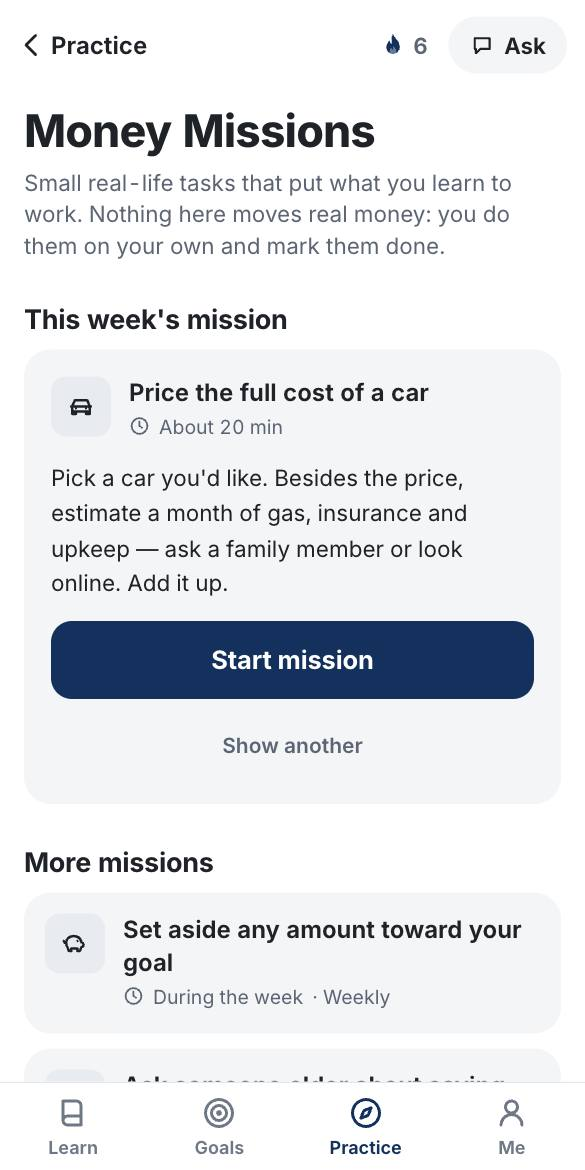
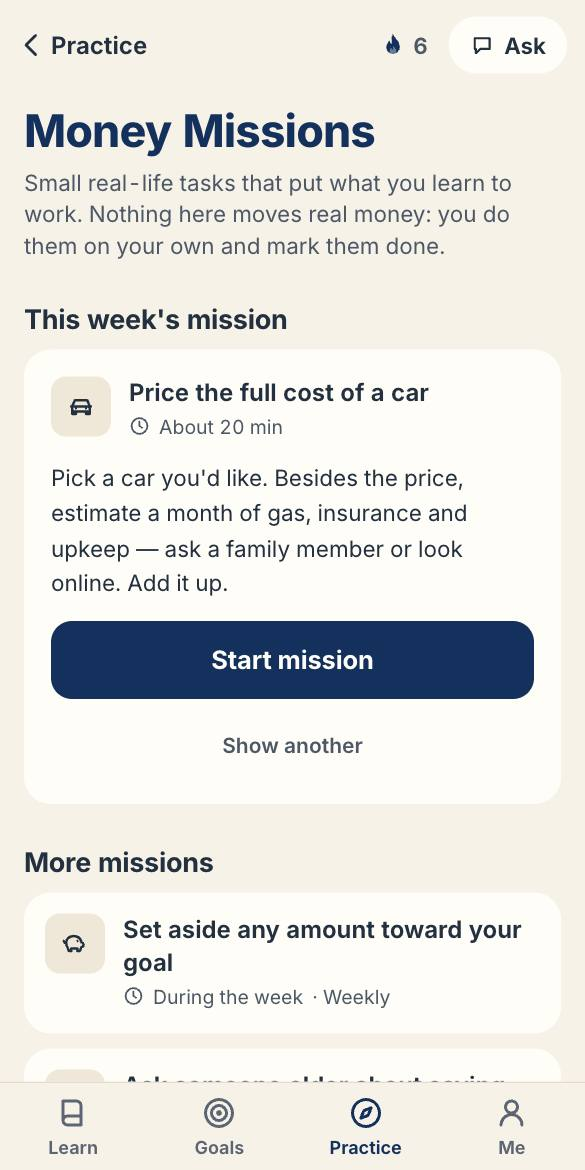
Navy and cream look (before launch)
- Light: a soft cream page (#F7F2E8), lighter cream cards, deep navy for
  headings, the main button, progress, the active tab, links and the
  logo; dark grey-navy body text. Dark: a deep navy page with cream text
  and cream accents (replacing the charcoal). Green still only for a
  correct answer, amber for "not quite" / "behind".
- New --head and --focus tokens; buttons, toasts and pills no longer
  assume white text, so they read in both modes.
- test/look.test.mjs: 26 text/background pairs meet WCAG AA (4.5:1) in
  Light and Dark, and the main button, progress and focus ring stand out.
- Matching: landing pages and teacher guides, share cards (cream on
  navy, a sand rule), the app icon (cream on navy; PNGs redrawn by
  scripts/make-icons.mjs), install colors, share previews, the mockup
  kit. Emails are plain text, so there's nothing to recolor.
- Screenshots: docs/design/navy-cream/ (after/, before-after.png),
  landing pictures retaken.

diff --git a/src/core/ui.jsx b/src/core/ui.jsx
@@ -1,72 +1,78 @@
-// DESIGN SYSTEM — the look (two of them: Light and Dark) as CSS variables,
+// DESIGN SYSTEM — the look (navy and cream, Light and Dark) as CSS variables,
 // and the small set of pieces every module builds with. Phone first: 44pt
 // tap targets, 16px inputs (so iPhones don't zoom), one column.
 import { useEffect, useRef, useState } from "react";
 import { createPortal } from "react-dom";
 
-// Mostly white and light grey, dark-grey text, and navy used sparingly:
-// the main button, progress, the active tab, links and the brand. Green
-// (--right) is only for a correct answer in a lesson; amber only for "not
-// quite"; red only for a loss or an error. One card style: a light-grey
-// fill, no border, no shadow. Two looks: Light ("white") and a charcoal
-// Dark ("navy", the saved name from before).
+// Navy and cream. Light: a soft cream page, lighter cream cards, deep navy
+// for headings, the main button, progress, the active tab, links and the
+// logo, and dark grey-navy body text. Dark: a deep navy page with cream
+// text and cream accents. Green (--right) is only for a correct answer in
+// a lesson; amber only for "not quite" or "behind"; red only for a loss or
+// an error. One card style: a fill, no border, no shadow. Every text pair
+// meets WCAG AA (test/look.test.mjs checks). The saved names stay "white"
+// (Light) and "navy" (Dark), so nobody's setting changes.
 export const LOOKS = {
   white: {
-    "--bg": "#FFFFFF",
-    "--surface": "#F4F5F7",
-    "--surface2": "#E8EBEF",
-    "--ink": "#1F2328",
-    "--mid": "#5B6573",
-    "--low": "#6E7886",
-    "--line": "#E4E7EB",
+    "--bg": "#F7F2E8",
+    "--surface": "#FFFDF8",
+    "--surface2": "#EFE7D8",
+    "--ink": "#22303F",
+    "--head": "#13315C",
+    "--mid": "#4C5866",
+    "--low": "#5C6573",
+    "--line": "#E6DCCB",
     "--brand": "#13315C",
-    "--onBrand": "#FFFFFF",
-    "--brandSoft": "#E8EDF5",
+    "--onBrand": "#FFFDF8",
+    "--brandSoft": "#E3E7EE",
     "--accent": "#13315C",
-    "--accentSoft": "#E8EDF5",
+    "--accentSoft": "#E3E7EE",
     "--good": "#13315C",
-    "--goodSoft": "#E8EDF5",
-    "--right": "#1E7A5F",
-    "--rightSoft": "#E6F2EE",
-    "--warn": "#9A5B12",
-    "--warnSoft": "#FBF1E4",
-    "--bad": "#B42318",
-    "--badSoft": "#FBECEA",
+    "--goodSoft": "#E3E7EE",
+    "--right": "#1B6F54",
+    "--rightSoft": "#E1EFE6",
+    "--warn": "#8C520E",
+    "--warnSoft": "#F7E9D2",
+    "--bad": "#A8231A",
+    "--badSoft": "#F9E7E2",
     "--flame": "#13315C",
     "--gold": "#13315C",
     "--sky": "#13315C",
-    "--level1": "#C9D4E6",
+    "--level1": "#CBD3E0",
     "--level2": "#6F89B3",
     "--level3": "#13315C",
+    "--focus": "#2B5CB3",
     "--shadow": "none",
   },
   navy: {
-    "--bg": "#0F1216",
-    "--surface": "#191D23",
-    "--surface2": "#252A32",
-    "--ink": "#E8EAED",
-    "--mid": "#A6AFBB",
-    "--low": "#8A94A1",
-    "--line": "#2A3038",
-    "--brand": "#9DB8E6",
-    "--onBrand": "#0F1216",
-    "--brandSoft": "#1D2A40",
-    "--accent": "#9DB8E6",
-    "--accentSoft": "#1D2A40",
-    "--good": "#9DB8E6",
-    "--goodSoft": "#1D2A40",
-    "--right": "#4DB892",
-    "--rightSoft": "#12302A",
-    "--warn": "#E3A44A",
-    "--warnSoft": "#33281A",
-    "--bad": "#F07167",
-    "--badSoft": "#3A1E26",
-    "--flame": "#9DB8E6",
-    "--gold": "#C9D8F0",
-    "--sky": "#9DB8E6",
-    "--level1": "#2B3B57",
-    "--level2": "#56719E",
-    "--level3": "#9DB8E6",
+    "--bg": "#0D1A2D",
+    "--surface": "#15253C",
+    "--surface2": "#1F3150",
+    "--ink": "#F2EBDC",
+    "--head": "#F7F1E6",
+    "--mid": "#CFC7B7",
+    "--low": "#B3AC9E",
+    "--line": "#2A3C58",
+    "--brand": "#F0E3C6",
+    "--onBrand": "#0D1A2D",
+    "--brandSoft": "#24344F",
+    "--accent": "#F0E3C6",
+    "--accentSoft": "#24344F",
+    "--good": "#F0E3C6",
+    "--goodSoft": "#24344F",
+    "--right": "#63C9A2",
+    "--rightSoft": "#123A33",
+    "--warn": "#EBB663",
+    "--warnSoft": "#3A2E19",
+    "--bad": "#F4907F",
+    "--badSoft": "#3B2224",
+    "--flame": "#F0E3C6",
+    "--gold": "#F0E3C6",
+    "--sky": "#F0E3C6",
+    "--level1": "#2E4568",
+    "--level2": "#7F9CC9",
+    "--level3": "#F0E3C6",
+    "--focus": "#A9C4F0",
     "--shadow": "none",
   },
 };
@@ -84,7 +90,8 @@ html{scroll-padding-top:calc(64px + env(safe-area-inset-top));scroll-padding-bot
 body{font-family:${FONT};color:var(--ink);-webkit-font-smoothing:antialiased;-webkit-text-size-adjust:100%;font-feature-settings:'cv11','ss01';font-variant-numeric:tabular-nums}
 button{font-family:inherit}
 input,select,textarea{font-family:inherit;font-size:16px}
-:focus-visible{outline:3px solid #2B5CB3;outline-offset:2px}
+:focus-visible{outline:3px solid var(--focus);outline-offset:2px}
+h1,h2{color:var(--head)}
 .nv-press{transition:transform .15s cubic-bezier(.2,.7,.2,1),filter .15s;-webkit-tap-highlight-color:transparent}
 .nv-press:active{transform:scale(.98);filter:brightness(.97)}
 .nv-in{animation:nvIn .2s ease-out both}
@@ -174,8 +181,8 @@ export function Icon({ name, size = 22, color = "currentColor", stroke = 2, fill
 
 const BUTTON = {
   primary: { background: "var(--brand)", color: "var(--onBrand)" },
-  good: { background: "var(--good)", color: "#fff" },
-  bad: { background: "var(--bad)", color: "#fff" },
+  good: { background: "var(--good)", color: "var(--onBrand)" },
+  bad: { background: "var(--bad)", color: "var(--onBrand)" },
   secondary: { background: "var(--bg)", color: "var(--ink)", border: "1px solid var(--line)" },
   ghost: { background: "transparent", color: "var(--brand)", boxShadow: "none" },
 };
@@ -353,7 +360,7 @@ export function Title({ children, sub, right }) {
 export const Label = ({ children, style }) => <h2 style={{ fontSize: 18, fontWeight: 700, letterSpacing: -0.2, color: "var(--ink)", margin: "28px 0 10px", ...style }}>{children}</h2>;
 
 export function Wordmark({ size = 24 }) {
-  return <span style={{ fontFamily: SERIF, fontWeight: 650, fontSize: size, letterSpacing: -0.3, lineHeight: 1 }}>Northvale</span>;
+  return <span style={{ fontFamily: SERIF, fontWeight: 650, fontSize: size, letterSpacing: -0.3, lineHeight: 1, color: "var(--head)" }}>Northvale</span>;
 }
 
 // TOASTS — short notes at the top ("+5 XP", "Saved"). Anyone can call toast().
@@ -374,7 +381,7 @@ export function Toasts() {
   return (
     <div aria-live="polite" style={{ position: "fixed", top: "calc(10px + env(safe-area-inset-top))", left: 0, right: 0, zIndex: 80, display: "flex", flexDirection: "column", alignItems: "center", gap: 8, pointerEvents: "none" }}>
       {items.map((t) => (
-        <div key={t.id} className="nv-in" style={{ background: t.tone === "good" ? "var(--brand)" : t.tone === "bad" ? "var(--bad)" : "var(--ink)", color: t.tone === "good" ? "var(--onBrand)" : t.tone === "info" ? "var(--bg)" : "#fff", borderRadius: 999, padding: "10px 18px", fontWeight: 650, fontSize: 15, boxShadow: "var(--shadow)", maxWidth: "90vw" }}>
+        <div key={t.id} className="nv-in" style={{ background: t.tone === "good" ? "var(--brand)" : t.tone === "bad" ? "var(--bad)" : "var(--ink)", color: t.tone === "good" || t.tone === "bad" ? "var(--onBrand)" : "var(--bg)", borderRadius: 999, padding: "10px 18px", fontWeight: 650, fontSize: 15, boxShadow: "var(--shadow)", maxWidth: "90vw" }}>
           {t.message}
         </div>
       ))}

diff --git a/web/bienvenida.html b/web/bienvenida.html
@@ -27,14 +27,14 @@
     <style>
       @font-face { font-family: "Inter"; font-weight: 100 900; font-display: swap; src: url(/fonts/inter-latin-wght-normal.woff2) format("woff2"); }
       @font-face { font-family: "EB Garamond"; font-weight: 600 700; font-display: swap; src: url(/fonts/eb-garamond-latin-600-normal.woff2) format("woff2"); }
-      :root { --bg: #f6f7f9; --surface: #fff; --surface2: #eef1f5; --ink: #0b1626; --mid: #4b5565; --low: #8a93a3; --line: #e3e7ed; --brand: #13315c; --brandSoft: #e9eef6; --accent: #1e7a5f; --accentSoft: #e6f2ee; --bad: #b42318; --badSoft: #fbecea; --warnSoft: #fbf0e2 }
+      :root { --bg: #F7F2E8; --surface: #FFFDF8; --surface2: #EFE7D8; --ink: #22303F; --head: #13315C; --mid: #4C5866; --low: #5C6573; --line: #E6DCCB; --brand: #13315C; --brandSoft: #E3E7EE; --accent: #13315C; --accentSoft: #EDE3CF; --bad: #A8231A; --badSoft: #F9E7E2; --warnSoft: #F7E9D2 }
       * { box-sizing: border-box }
       html { scroll-behavior: smooth; -webkit-text-size-adjust: 100% }
       @media (prefers-reduced-motion: reduce) { html { scroll-behavior: auto } }
       body { margin: 0; background: var(--bg); color: var(--ink); font: 17px/1.55 Inter, system-ui, -apple-system, "Segoe UI", sans-serif }
       a { color: var(--brand) }
       .wrap { max-width: 1040px; margin: 0 auto; padding: 0 20px }
-      header { position: sticky; top: 0; z-index: 5; background: rgba(246, 247, 249, .94); backdrop-filter: blur(8px); border-bottom: 1px solid var(--line) }
+      header { position: sticky; top: 0; z-index: 5; background: rgba(247, 242, 232, .94); backdrop-filter: blur(8px); border-bottom: 1px solid var(--line) }
       header .wrap { display: flex; align-items: center; gap: 12px; min-height: 60px; padding-top: env(safe-area-inset-top) }
       .mark { font-family: "EB Garamond", Georgia, serif; font-weight: 650; font-size: 26px; letter-spacing: -.3px; color: var(--ink); text-decoration: none; line-height: 1 }
       .mark small { font-family: Inter, sans-serif; font-size: 11px; font-weight: 650; letter-spacing: 2.5px; color: var(--low); margin-left: 6px; vertical-align: 3px }
@@ -46,6 +46,7 @@
       .btn:disabled { opacity: .45; cursor: default }
       .btn:focus-visible, a:focus-visible, input:focus-visible, select:focus-visible { outline: 3px solid #2b5cb3; outline-offset: 2px }
       .pill { display: inline-block; font-size: 14px; font-weight: 650; color: var(--brand); background: var(--brandSoft); border-radius: 999px; padding: 5px 12px }
+      h1, h2, h3 { color: var(--head) }
       h1 { font-size: clamp(38px, 9vw, 60px); line-height: 1.04; letter-spacing: -1.5px; margin: 16px 0 14px }
       h2 { font-size: clamp(26px, 5.5vw, 36px); line-height: 1.15; letter-spacing: -.6px; margin: 0 0 12px }
       h3 { font-size: 19px; margin: 0 0 6px }

diff --git a/web/welcome.html b/web/welcome.html
@@ -27,14 +27,14 @@
     <style>
       @font-face { font-family: "Inter"; font-weight: 100 900; font-display: swap; src: url(/fonts/inter-latin-wght-normal.woff2) format("woff2"); }
       @font-face { font-family: "EB Garamond"; font-weight: 600 700; font-display: swap; src: url(/fonts/eb-garamond-latin-600-normal.woff2) format("woff2"); }
-      :root { --bg: #f6f7f9; --surface: #fff; --surface2: #eef1f5; --ink: #0b1626; --mid: #4b5565; --low: #8a93a3; --line: #e3e7ed; --brand: #13315c; --brandSoft: #e9eef6; --accent: #1e7a5f; --accentSoft: #e6f2ee; --bad: #b42318; --badSoft: #fbecea; --warnSoft: #fbf0e2 }
+      :root { --bg: #F7F2E8; --surface: #FFFDF8; --surface2: #EFE7D8; --ink: #22303F; --head: #13315C; --mid: #4C5866; --low: #5C6573; --line: #E6DCCB; --brand: #13315C; --brandSoft: #E3E7EE; --accent: #13315C; --accentSoft: #EDE3CF; --bad: #A8231A; --badSoft: #F9E7E2; --warnSoft: #F7E9D2 }
       * { box-sizing: border-box }
       html { scroll-behavior: smooth; -webkit-text-size-adjust: 100% }
       @media (prefers-reduced-motion: reduce) { html { scroll-behavior: auto } }
       body { margin: 0; background: var(--bg); color: var(--ink); font: 17px/1.55 Inter, system-ui, -apple-system, "Segoe UI", sans-serif }
       a { color: var(--brand) }
       .wrap { max-width: 1040px; margin: 0 auto; padding: 0 20px }
-      header { position: sticky; top: 0; z-index: 5; background: rgba(246, 247, 249, .94); backdrop-filter: blur(8px); border-bottom: 1px solid var(--line) }
+      header { position: sticky; top: 0; z-index: 5; background: rgba(247, 242, 232, .94); backdrop-filter: blur(8px); border-bottom: 1px solid var(--line) }
       header .wrap { display: flex; align-items: center; gap: 12px; min-height: 60px; padding-top: env(safe-area-inset-top) }
       .mark { font-family: "EB Garamond", Georgia, serif; font-weight: 650; font-size: 26px; letter-spacing: -.3px; color: var(--ink); text-decoration: none; line-height: 1 }
       .mark small { font-family: Inter, sans-serif; font-size: 11px; font-weight: 650; letter-spacing: 2.5px; color: var(--low); margin-left: 6px; vertical-align: 3px }
@@ -46,6 +46,7 @@
       .btn:disabled { opacity: .45; cursor: default }
       .btn:focus-visible, a:focus-visible, input:focus-visible, select:focus-visible { outline: 3px solid #2b5cb3; outline-offset: 2px }
       .pill { display: inline-block; font-size: 14px; font-weight: 650; color: var(--brand); background: var(--brandSoft); border-radius: 999px; padding: 5px 12px }
+      h1, h2, h3 { color: var(--head) }
       h1 { font-size: clamp(38px, 9vw, 60px); line-height: 1.04; letter-spacing: -1.5px; margin: 16px 0 14px }
       h2 { font-size: clamp(26px, 5.5vw, 36px); line-height: 1.15; letter-spacing: -.6px; margin: 0 0 12px }
       h3 { font-size: 19px; margin: 0 0 6px }

diff --git a/web/index.html b/web/index.html
@@ -5,7 +5,7 @@
     <meta name="viewport" content="width=device-width, initial-scale=1, viewport-fit=cover" />
     <title>Northvale Learn</title>
     <meta name="description" content="Learn money and investing by doing — 5 minutes a day. Practice with pretend money. Educational only." />
-    <meta name="theme-color" content="#F5F7FB" />
+    <meta name="theme-color" content="#F7F2E8" />
     <meta name="apple-mobile-web-app-capable" content="yes" />
     <meta name="apple-mobile-web-app-title" content="Northvale" />
     <meta name="apple-mobile-web-app-status-bar-style" content="default" />
@@ -19,7 +19,7 @@
       @font-face { font-family: "Inter"; font-style: normal; font-display: swap; font-weight: 100 900; src: url(/fonts/inter-latin-wght-normal.woff2) format("woff2"); unicode-range: U+0000-00FF, U+0131, U+0152-0153, U+02BB-02BC, U+02C6, U+02DA, U+02DC, U+0304, U+0308, U+0329, U+2000-206F, U+20AC, U+2122, U+2191, U+2193, U+2212, U+2215, U+FEFF, U+FFFD; }
       @font-face { font-family: "Inter"; font-style: normal; font-display: swap; font-weight: 100 900; src: url(/fonts/inter-latin-ext-wght-normal.woff2) format("woff2"); unicode-range: U+0100-02BA, U+02BD-02C5, U+02C7-02CC, U+02CE-02D7, U+02DD-02FF, U+0304, U+0308, U+0329, U+1D00-1DBF, U+1E00-1E9F, U+1EF2-1EFF, U+2020, U+20A0-20AB, U+20AD-20C0, U+2113, U+2C60-2C7F, U+A720-A7FF; }
       @font-face { font-family: "EB Garamond"; font-style: normal; font-display: swap; font-weight: 600 700; src: url(/fonts/eb-garamond-latin-600-normal.woff2) format("woff2"); }
-      html,body{margin:0;background:#F5F7FB}#root{min-height:100dvh}
+      html,body{margin:0;background:#F7F2E8}#root{min-height:100dvh}
     </style>
   </head>
   <body>

diff --git a/src/core/share.jsx b/src/core/share.jsx
@@ -56,7 +56,7 @@ function wrap(ctx, text, width) {
   }
   return lines;
 }
-// A 1080×1080 PNG: navy, the wordmark, the line, a green rule, the fine print.
+// A 1080×1080 PNG: navy, the wordmark in cream, the line, a sand rule, the fine print.
 async function draw([big, sub], footer) {
   await document.fonts.ready.catch(() => {});
   const c = document.createElement("canvas");
@@ -64,7 +64,7 @@ async function draw([big, sub], footer) {
   const x = c.getContext("2d");
   x.fillStyle = "#13315C";
   x.fillRect(0, 0, 1080, 1080);
-  x.fillStyle = "#FFFFFF";
+  x.fillStyle = "#F7F2E8";
   x.textBaseline = "alphabetic";
   x.font = `650 76px ${SERIF}`;
   x.fillText("Northvale", 96, 170);
@@ -76,9 +76,9 @@ async function draw([big, sub], footer) {
   const lines = wrap(x, big, 888).slice(0, 4);
   let y = 560 - (lines.length - 1) * 58;
   for (const l of lines) (x.fillText(l, 96, y), (y += 116));
-  x.fillStyle = "#4DB892";
+  x.fillStyle = "#E3CFA4";
   x.fillRect(96, y - 70, 120, 10);
-  x.fillStyle = "#FFFFFF";
+  x.fillStyle = "#F7F2E8";
   x.font = `500 46px ${FONT}`;
   x.globalAlpha = 0.9;
   for (const l of wrap(x, sub, 888).slice(0, 3)) (x.fillText(l, 96, y + 10), (y += 60));

diff --git a/src/core/App.jsx b/src/core/App.jsx
@@ -259,7 +259,7 @@ function StreakSheet({ open, onClose, t, progress, today }) {
           const lesson = lessonDays.has(d);
           const frozen = s.frozen.includes(d);
           return (
-            <div key={d} title={d} style={{ aspectRatio: "1", borderRadius: 12, display: "flex", alignItems: "center", justifyContent: "center", fontSize: 13, fontWeight: 650, background: frozen ? "var(--brandSoft)" : lesson ? "var(--flame)" : "var(--surface2)", color: lesson && !frozen ? "#fff" : "var(--mid)", outline: d === today ? "1px solid var(--ink)" : "none" }}>
+            <div key={d} title={d} style={{ aspectRatio: "1", borderRadius: 12, display: "flex", alignItems: "center", justifyContent: "center", fontSize: 13, fontWeight: 650, background: frozen ? "var(--brandSoft)" : lesson ? "var(--flame)" : "var(--surface2)", color: lesson && !frozen ? "var(--onBrand)" : "var(--mid)", outline: d === today ? "1px solid var(--ink)" : "none" }}>
               {frozen ? <Icon name="snow" size={16} color="var(--sky)" /> : Number(d.slice(8))}
             </div>
           );

diff --git a/web/teacher-guide.html b/web/teacher-guide.html
@@ -9,7 +9,7 @@
     <style>
       @font-face { font-family: "Inter"; font-weight: 100 900; font-display: swap; src: url(/fonts/inter-latin-wght-normal.woff2) format("woff2"); }
       @font-face { font-family: "EB Garamond"; font-weight: 600 700; font-display: swap; src: url(/fonts/eb-garamond-latin-600-normal.woff2) format("woff2"); }
-      :root { --ink: #0b1626; --mid: #4b5565; --line: #e3e7ed; --brand: #13315c; --soft: #e9eef6; --accent: #1e7a5f; }
+      :root { --ink: #22303F; --mid: #4C5866; --line: #E6DCCB; --brand: #13315C; --soft: #E3E7EE; --accent: #13315C; }
       * { box-sizing: border-box }
       body { margin: 0; background: #fff; color: var(--ink); font: 16px/1.55 Inter, system-ui, sans-serif }
       main { max-width: 760px; margin: 0 auto; padding: 32px 20px 56px }
@@ -67,7 +67,7 @@
       </ul>
 
       <div class="two">
-        <div class="box" style="background: #e6f2ee">
+        <div class="box" style="background: #EDE3CF">
           <strong>You see</strong>
           <ul>
             <li>Nicknames</li>

diff --git a/web/guia-docente.html b/web/guia-docente.html
@@ -9,7 +9,7 @@
     <style>
       @font-face { font-family: "Inter"; font-weight: 100 900; font-display: swap; src: url(/fonts/inter-latin-wght-normal.woff2) format("woff2"); }
       @font-face { font-family: "EB Garamond"; font-weight: 600 700; font-display: swap; src: url(/fonts/eb-garamond-latin-600-normal.woff2) format("woff2"); }
-      :root { --ink: #0b1626; --mid: #4b5565; --line: #e3e7ed; --brand: #13315c; --soft: #e9eef6; --accent: #1e7a5f; }
+      :root { --ink: #22303F; --mid: #4C5866; --line: #E6DCCB; --brand: #13315C; --soft: #E3E7EE; --accent: #13315C; }
       * { box-sizing: border-box }
       body { margin: 0; background: #fff; color: var(--ink); font: 16px/1.55 Inter, system-ui, sans-serif }
       main { max-width: 760px; margin: 0 auto; padding: 32px 20px 56px }
@@ -67,7 +67,7 @@
       </ul>
 
       <div class="two">
-        <div class="box" style="background: #e6f2ee">
+        <div class="box" style="background: #EDE3CF">
           <strong>Ves</strong>
           <ul>
             <li>Apodos</li>

diff --git a/src/modules/goals/index.jsx b/src/modules/goals/index.jsx
@@ -271,7 +271,7 @@ function useDailyBookkeeping(rows, holdings, onMilestone) {
 
 // ---- small pieces ---------------------------------------------------------
 
-const TONE = { on_track: ["var(--brandSoft)", "var(--brand)"], ahead: ["var(--accentSoft)", "var(--accent)"], done: ["var(--accent)", "#fff"], behind: ["var(--warnSoft)", "var(--warn)"], paused: ["var(--surface2)", "var(--mid)"] };
+const TONE = { on_track: ["var(--brandSoft)", "var(--brand)"], ahead: ["var(--accentSoft)", "var(--accent)"], done: ["var(--accent)", "var(--onBrand)"], behind: ["var(--warnSoft)", "var(--warn)"], paused: ["var(--surface2)", "var(--mid)"] };
 function StatusPill({ t, status }) {
   const [bg, fg] = TONE[status];
   return <span style={{ fontSize: 12, fontWeight: 650, background: bg, color: fg, borderRadius: 999, padding: "4px 10px", whiteSpace: "nowrap", letterSpacing: 0.1 }}>{t(`status.${status}`)}</span>;

diff --git a/README.md b/README.md
@@ -7,7 +7,7 @@ Learn money by doing: three-minute lessons, a goal to learn for, and practice wi
   - **Practice** is there from day one, with a clear preview until 3 lessons are done. Inside it, Money Missions, the practice portfolio (with "Your first safe investment"), the tools from your lessons (each after the lesson that uses it) and News explained (after 5 lessons) open over time, each with a "New" tag or a one-time introduction. Anything a learner already used stays open.
   - **Me** has progress (streak, XP, this week), the weekly league (after 3 learning days), and rows for achievements, skills, inviting a friend (after 3 learning days), classes, Settings, feedback and the legal pages.
   - **First run:** three screens to the first lesson: welcome, "What do you want to learn money skills for?", and "How do you want to start?" (from the beginning, or a 2-minute check), with which lessons come first and why.
-  - **The look:** white and light grey, one card style, navy only for the main button, progress, the active tab and links, and green only for a correct answer. Dark mode is charcoal with light-navy accents.
+  - **The look: navy and cream.** A soft cream page with lighter cream cards; deep navy for headings, the main button, progress, the active tab, links and the logo; dark grey-navy body text. Dark mode is a deep navy page with cream text and cream accents. Green only for a correct answer, amber for "not quite" or "behind". Every text color meets WCAG AA in both modes (`test/look.test.mjs`).
 - **Goals.** The Goals tab: what you're learning for.
   - Pick a goal (emergency fund, car, college, first investment, travel, paying off debt, or your own) with country-appropriate starting amounts. You get a dated monthly plan on a path: cash, savings account / CETES, or index fund.
   - Each goal shows what you've saved so far vs. the target, time left, and whether you're on track, behind or ahead of the plan.
